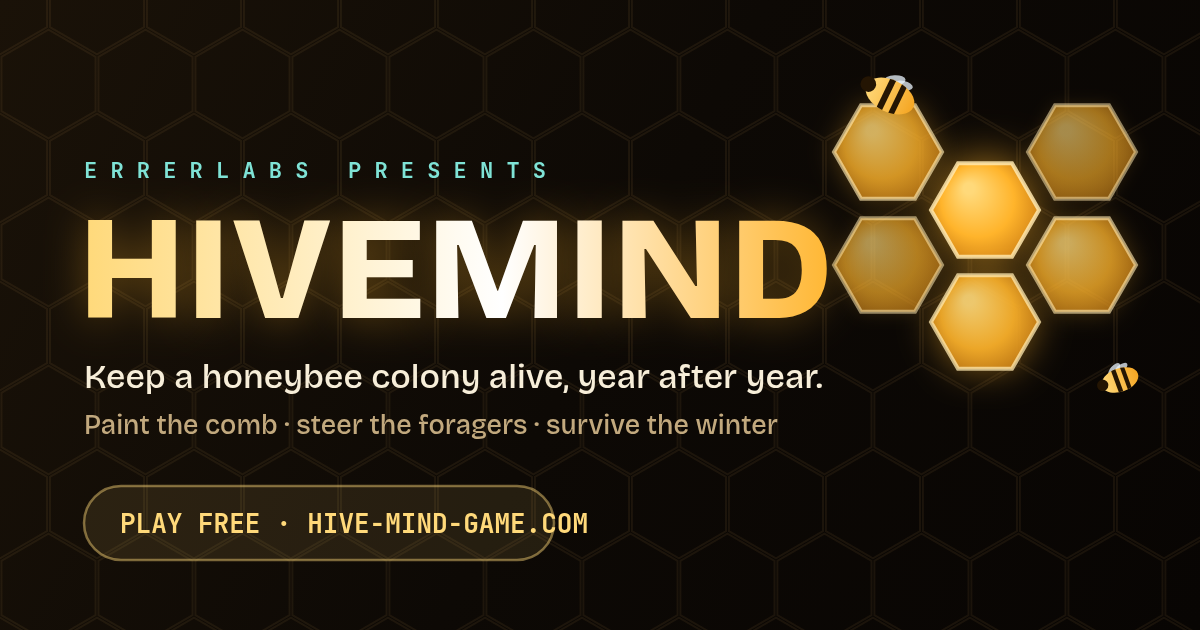
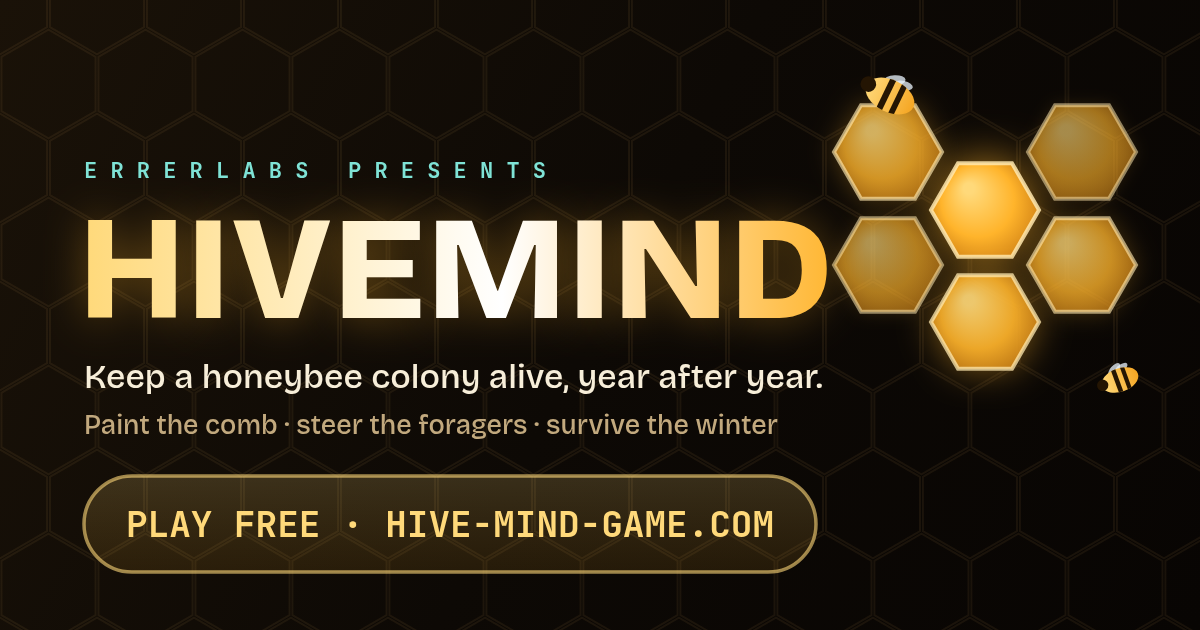
Enlarge the social-card pill for iMessage bubble scale
The PLAY FREE · HIVE-MIND-GAME.COM pill read too small once iMessage
scaled the 1200px card down to bubble size. The pill is now sized
dynamically around 36px bold type with a stronger border and fill, and
the og:image/twitter:image URLs carry a ?v=2 cache-buster so link
previews refetch the new artwork.

Claude-Session: https://claude.ai/code/session_01MXmoiiRuhYR9ujpC363AW6

Changed region(s): [[0.0617, 0.754, 0.7092, 0.9349]]

diff --git a/index.html b/index.html
@@ -18,12 +18,12 @@
 <meta property="og:site_name" content="HIVEMIND">
 <meta property="og:title" content="HIVEMIND — keep a honeybee colony alive, year after year">
 <meta property="og:description" content="A beekeeping survival sim in your browser. Paint the comb, steer the foragers, and stock enough honey to survive the winter. Free & open source.">
-<meta property="og:image" content="https://hive-mind-game.com/social-card.png">
+<meta property="og:image" content="https://hive-mind-game.com/social-card.png?v=2">
 <meta property="og:image:width" content="1200">
 <meta property="og:image:height" content="630">
 <meta property="og:image:alt" content="HIVEMIND — a honeycomb with glowing cells and a bee. Keep a honeybee colony alive, year after year.">
 <meta name="twitter:card" content="summary_large_image">
-<meta name="twitter:image" content="https://hive-mind-game.com/social-card.png">
+<meta name="twitter:image" content="https://hive-mind-game.com/social-card.png?v=2">
 <title>HIVEMIND — keep a honeybee colony alive, year after year</title>
 <link rel="preconnect" href="https://fonts.googleapis.com">
 <link rel="preconnect" href="https://fonts.gstatic.com" crossorigin>